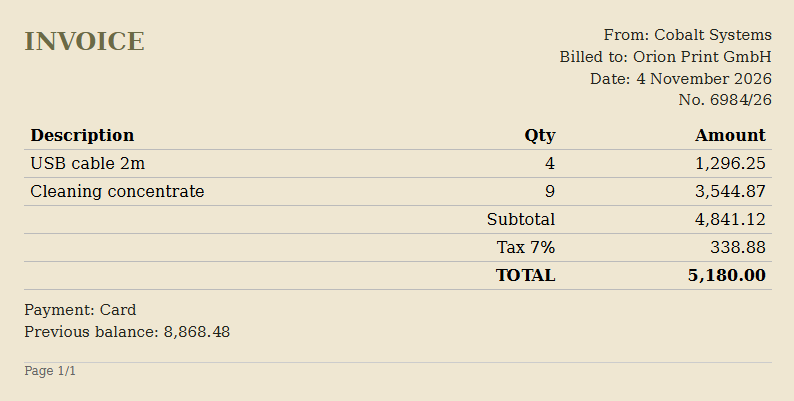
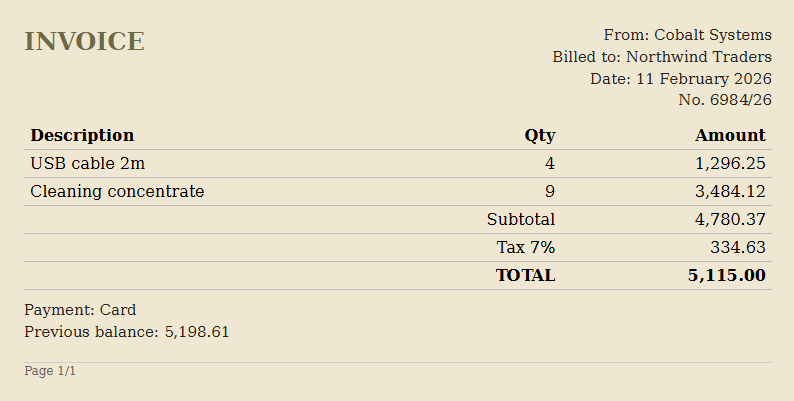
Amber: two measured sub-tau fine-gap documents (d3-6 5250.00 p 0.536, d4-5 5115.00 p 0.546); distractor now reaches the pixels, d4-2 render frozen

diff --git a/scripts/gen_amber_checkpoint.py b/scripts/gen_amber_checkpoint.py
@@ -77,11 +77,11 @@ SCENARIOS = {
         ("inv", {"listed": True}), ("inv", {"listed": True})],
     3: [("inv", {"total": "wide_in", "listed": True}), ("inv", {"total": "wide_over", "listed": True}),
         ("inv", {"total": "wide_in", "listed": True}), ("form", "complete"),
-        ("inv", {"total": "wide_in", "listed": False}), ("inv", {"total": "wide_over", "listed": True}),
+        ("inv", {"total": "wide_in", "listed": False}), ("inv", {"total": 5250.00, "listed": True}),
         ("inv", {"total": "wide_in", "listed": True}), ("form", "missing_required")],
-    4: [("inv", {"total": "fine_in", "listed": True}), ("inv", {"total": "fine_over", "listed": True}),
+    4: [("inv", {"total": "fine_in", "listed": True}), ("inv", {"total": "fine_over", "listed": True, "distract": False}),
         ("inv", {"total": "fine_in", "listed": True}), ("form", "complete"),
-        ("inv", {"total": "fine_over", "listed": True}), ("inv", {"total": "fine_in", "listed": False}),
+        ("inv", {"total": 5115.00, "listed": True}), ("inv", {"total": "fine_in", "listed": False}),
         ("form", "missing_required"), ("wrong",)],
 }
 
@@ -95,16 +95,24 @@ def make_doc(day: int, i: int, scen: tuple, sender: str | None = None) -> dict:
     sc = scen[1] if len(scen) > 1 else {}
     doc = {"id": did, "kind": kind, "image": f"assets/docs/{did}.png"}
     if kind == "inv":
-        total = rng.choice(TOTALS[sc["total"]]) if "total" in sc else rng.choice((312.50, 812.50, 1850.00))
+        # "total" is a TOTALS pool name, or a literal fine-gap value chosen by
+        # measurement (level design inside the validated distribution)
+        total = (sc["total"] if isinstance(sc.get("total"), float)
+                 else rng.choice(TOTALS[sc["total"]]) if "total" in sc
+                 else rng.choice((312.50, 812.50, 1850.00)))
         # the measured hard mode (E38a decisive counterfactuals): a competing
-        # amount printed on the same page, near the cap on day 4
-        gap = "fine" if str(sc.get("total", "")).startswith("fine") else "wide"
-        distractor = round(total + rng.choice((-1, 1)) * rng.uniform(40, 160), 2) if gap == "fine" else None
+        # amount printed on the same page, near the cap on fine gaps. The draw
+        # is always consumed (so frozen docs keep their byte-identical renders)
+        # but only used where the scenario wants the competing amount.
+        gap = "fine" if (isinstance(sc.get("total"), float) or str(sc.get("total", "")).startswith("fine")) else "wide"
+        drawn = round(total + rng.choice((-1, 1)) * rng.uniform(40, 160), 2) if gap == "fine" else None
+        distractor = drawn if (gap == "fine" and sc.get("distract", True)) else None
         content = amount_doc("invoice", total, rng, "en", distractor=distractor)
         if sender is not None:  # assigned by the day plan: unique companies per day
             content = replace(content, sender=sender)
             content = reprice(content, content.total_value, rng)
         doc.update(doc_type="invoice", total=content.total_value, sender=content.sender,
+                   distractor=distractor,
                    listed=sc.get("listed", True), template=f"acp-h0b0f{rng.randrange(2)}",
                    issuer="vel" if rng.random() < 0.7 else "kor")
     elif kind == "form":
@@ -214,7 +222,10 @@ def render_all(campaign: dict) -> dict:
                 if doc["kind"] == "inv":
                     # rebuild, then force the semantic fields the checks read:
                     # the printed sender and total must equal the plan's gold.
-                    content = amount_doc("invoice", doc["total"], rng, "en")
+                    # the near-cap competing amount (doc["distractor"]) is part
+                    # of the measured hard-mode design: it must reach the pixels.
+                    content = amount_doc("invoice", doc["total"], rng, "en",
+                                         distractor=doc.get("distractor"))
                     content = replace(content, sender=doc["sender"])
                     content = reprice(content, doc["total"], rng)
                     html = render_doc(content, doc["template"], theme)
